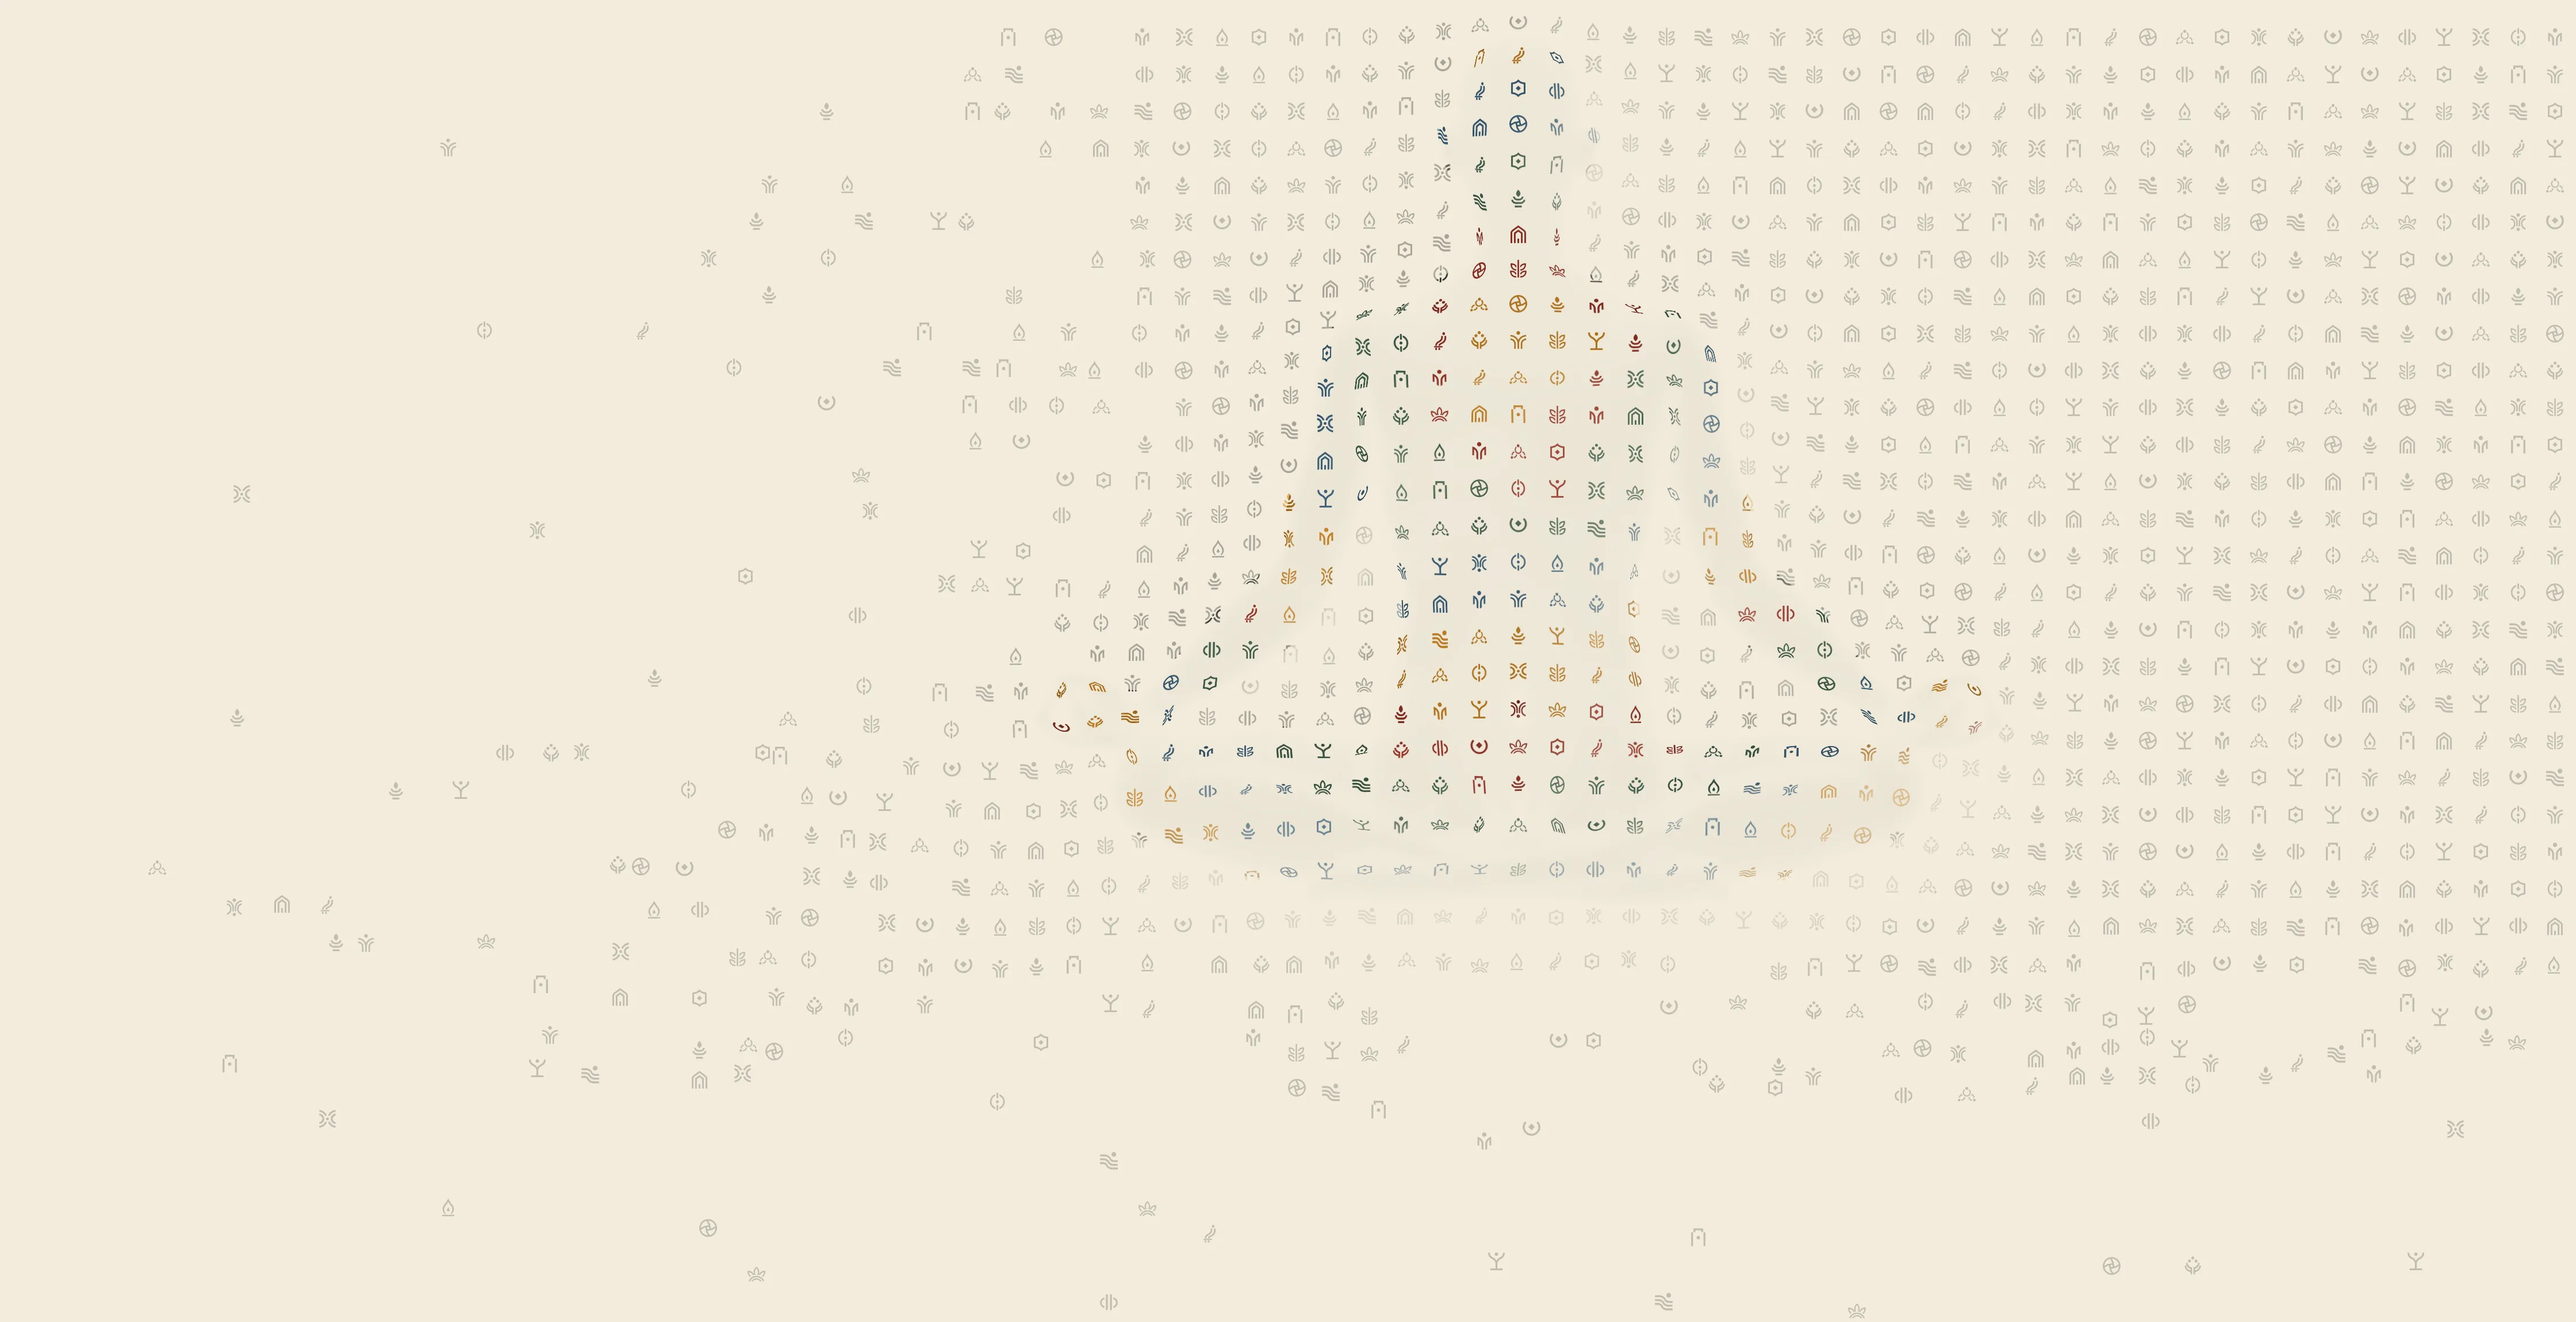
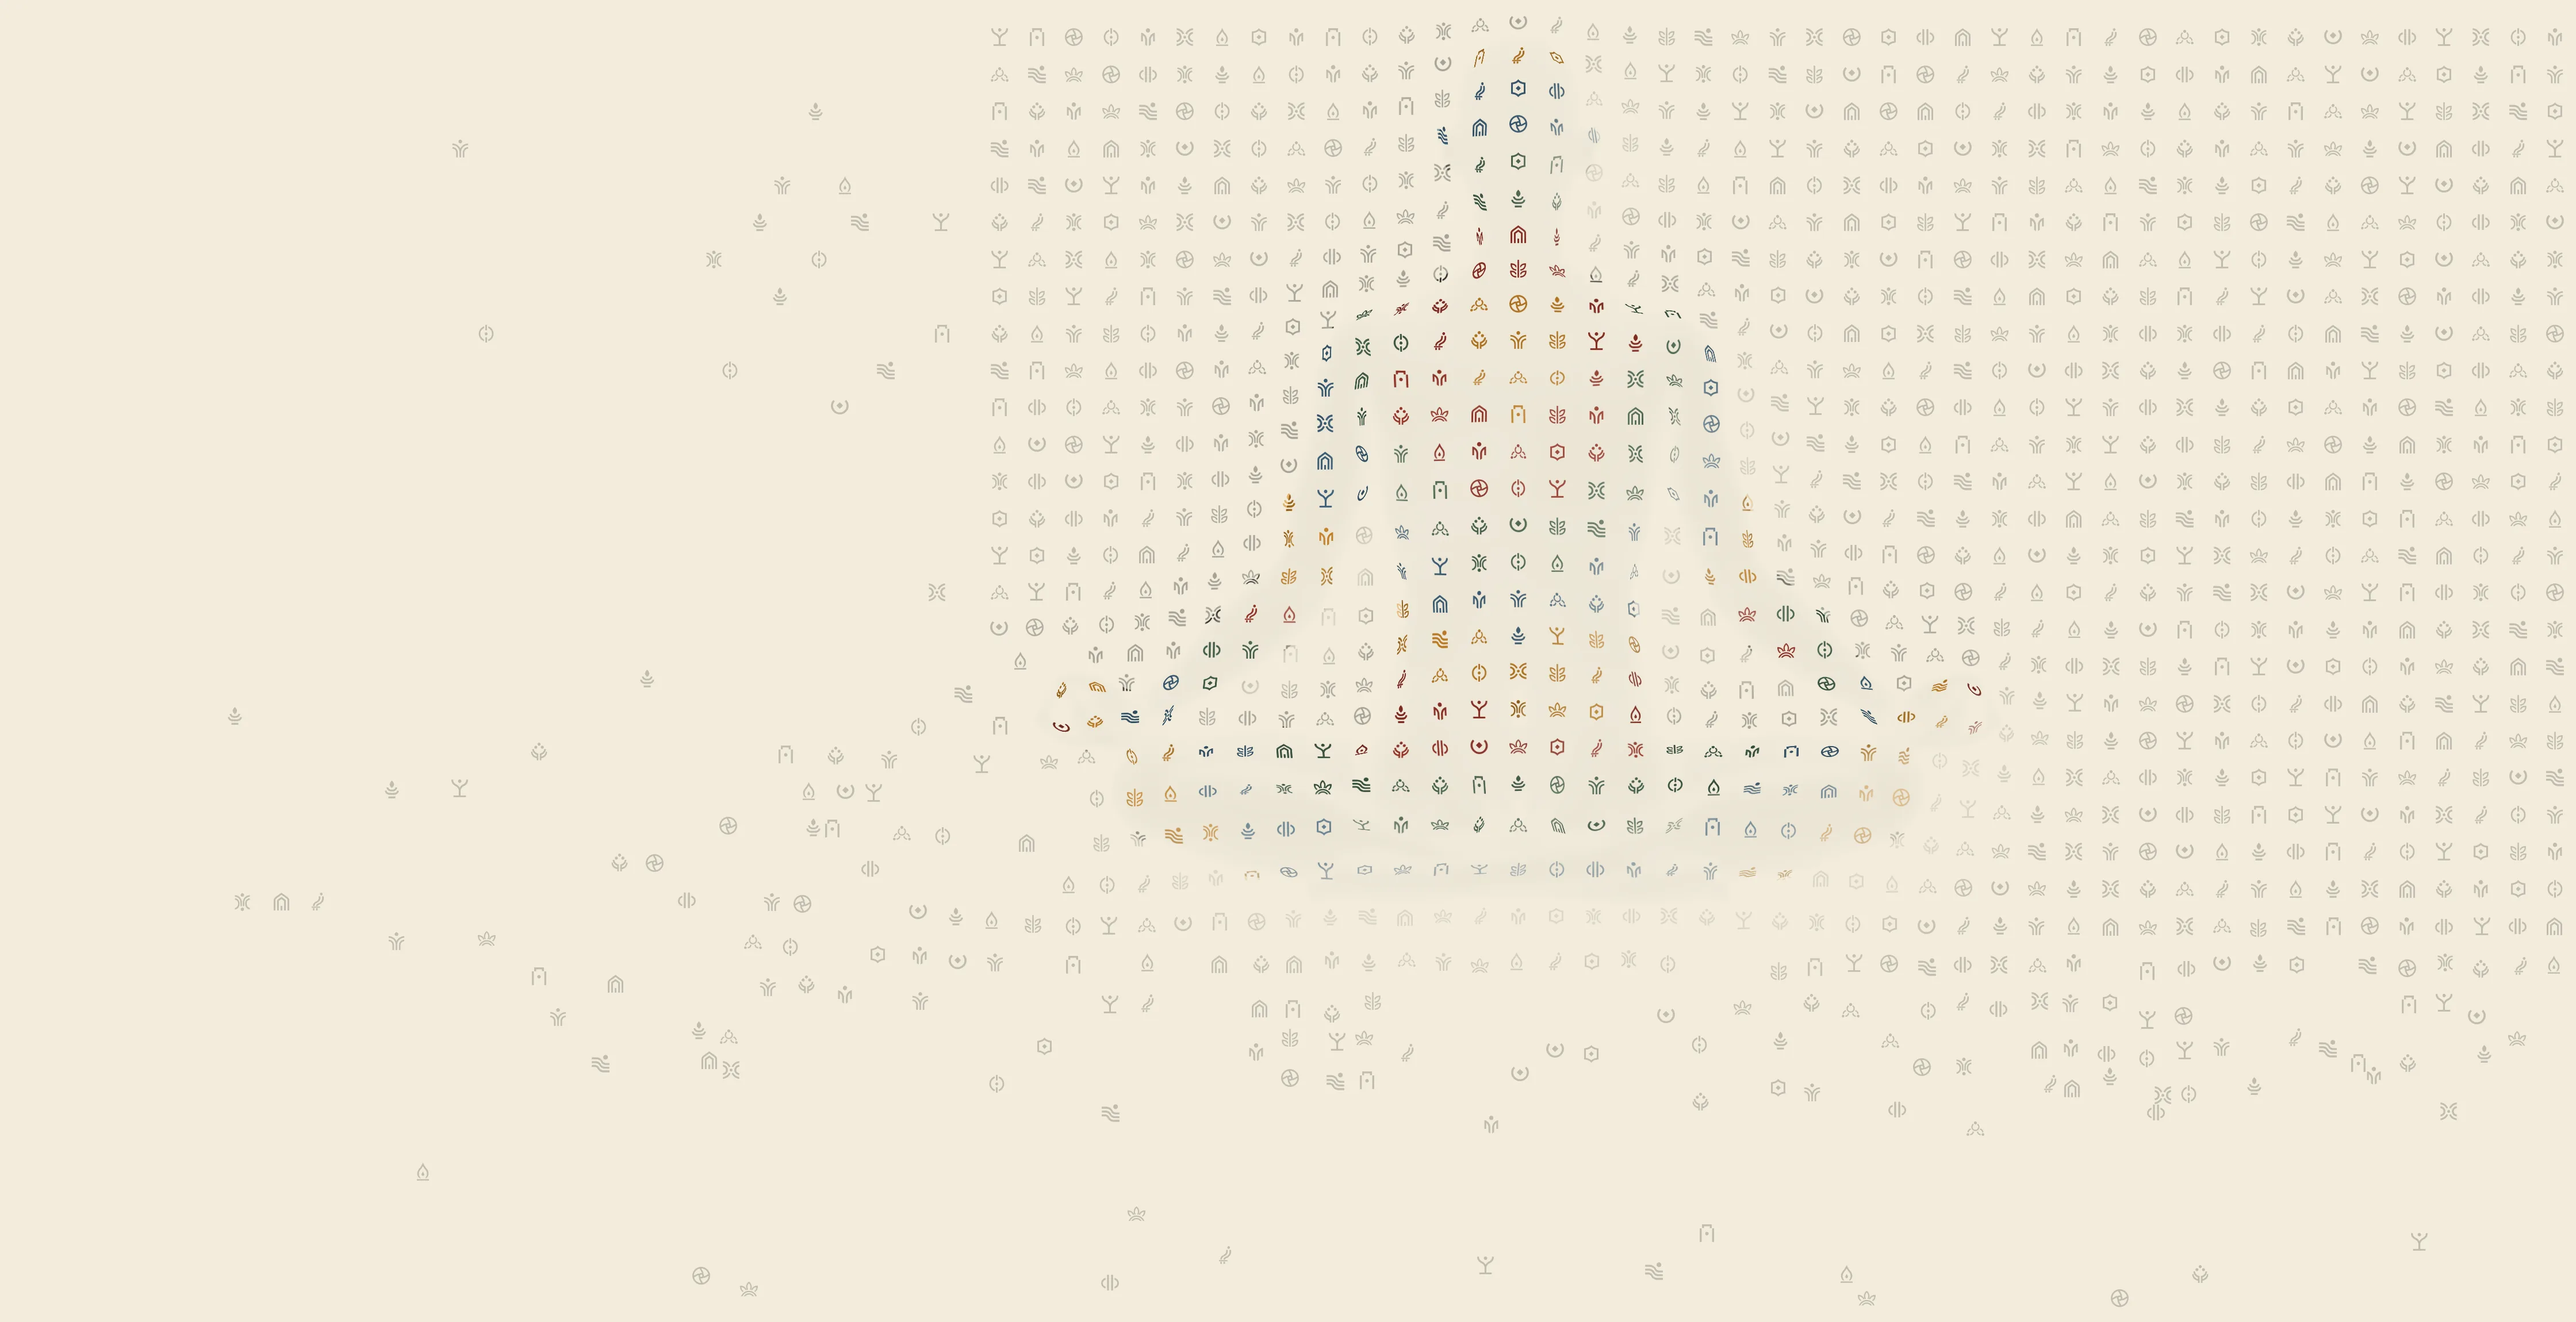
Hero field: crisp left edge through CE down to the figure's leftmost point, then sparse spread
Claude-Session: https://claude.ai/code/session_01Faxypstm6H8yAswypDCHBa

diff --git a/app/lanes-home.css b/app/lanes-home.css
@@ -257,7 +257,14 @@
 @media(min-width:901px){
   .field-guide .ln-copy{z-index:2}
   /* No clear zone behind the copy (Dat, Nov 17: "text is ok to have glyphs behind"); the waterfall shape alone sets the field. */
-  /* Field edges (Dat, Nov 17): the waterfall line and the break-up below the figure are drawn into the image by
-     scripts/hero-glyph-field.py (the field fragments and disperses); the CSS only fades the image's last rows. */
-  .field-guide .ln-art .ln-field{-webkit-mask-image:linear-gradient(#000 88%,transparent 99%);mask-image:linear-gradient(#000 88%,transparent 99%)}
+  /* Field edge (Dat, Nov 17): public/brand/home/hero-field-shape.svg, in stage units (x −700 to 2500, y −50 to 1200),
+     cuts the field crisply at x 500 (through the CE of "PRACTICE") down to the figure's leftmost point; below that the
+     image spreads out sparsely by itself. It is placed against the stage, so the cut keeps its place beside the copy at
+     every width. The field box sits at min(100vw,1280px) − 140 px − 1553.76 units. */
+  .field-guide .ln-art .ln-field{
+    -webkit-mask-image:url('/brand/home/hero-field-shape.svg'),linear-gradient(#000 88%,transparent 99%);
+    mask-image:url('/brand/home/hero-field-shape.svg'),linear-gradient(#000 88%,transparent 99%);
+    -webkit-mask-size:calc(3200 * var(--u)) calc(1250 * var(--u)),100% 100%;mask-size:calc(3200 * var(--u)) calc(1250 * var(--u)),100% 100%;
+    -webkit-mask-position:calc(853.76 * var(--u) + 140px - min(100vw,1280px)) calc(-50 * var(--u)),0 0;mask-position:calc(853.76 * var(--u) + 140px - min(100vw,1280px)) calc(-50 * var(--u)),0 0;
+    -webkit-mask-repeat:no-repeat;mask-repeat:no-repeat;-webkit-mask-composite:source-in;mask-composite:intersect}
 }

diff --git a/scripts/hero-glyph-field.py b/scripts/hero-glyph-field.py
@@ -73,7 +73,8 @@ DISPERSE=False            # False: the field stays an even grid below the figure
 # being cut by a mask. Near the edge glyphs thin out in uneven clumps, a few stragglers wander past it, and the rest
 # drift outwards. Only field glyphs; the figure is untouched. The line is the waterfall curve in stage units, placed as on
 # the page at 1440 px wide (stage x = image x + EDGE_SHIFT); it shifts by under 100 units at other widths.
-EDGE_PATH=[(500,-60),(500,40),('C',(500,430),(470,560),(330,660)),('C',(150,770),(-120,930),(-220,1210))]
+EDGE_PATH=[(500,-60),(500,560),('C',(500,700),(330,780),(150,880)),('C',(20,960),(-120,1060),(-220,1210))]
+SOLID_TO=610              # above this (stage y) the page's CSS cuts the field crisply at x 500; the image keeps it whole
 EDGE_SHIFT=141.5
 EDGE_BAND=230             # how far inside the line the field starts to break up (units)
 EDGE_OUT=110              # how far past the line stragglers reach (units)
@@ -148,6 +149,9 @@ def fragment(x,y,u):
     if e>=EDGE_BAND: pe=1.0; te=0.0
     elif e>=0: te=1-e/EDGE_BAND; te=te*te*(3-2*te); pe=1-(1-EDGE_KEEP)*te
     else: te=1.0; pe=EDGE_KEEP*np.exp(e/EDGE_OUT)
+    wsol=np.clip((SOLID_TO-y)/60,0,1) if e>=0 else 0.0       # inside the line, 1 well above SOLID_TO: no break-up there (the CSS cut);
+                                                             # outside it the field is sparse at every height, so the CSS fade-in shows no full rows
+    pe=pe+(1-pe)*wsol; te=te*(1-wsol)
     tb=np.clip((y-(TOP+HT+BOTTOM_START))/BOTTOM_LEN,0,1); tb=tb*tb*(3-2*tb); pb=1-(1-BOTTOM_KEEP)*tb
     p=pe*pb
     if p<1: p=np.clip(p+CLUMP*clump(x,y)*min(p,1-p)*2,0,1)

diff --git a/docs/edit-ledger.md b/docs/edit-ledger.md
@@ -785,3 +785,10 @@ commits. Hashes below were backfilled for commits made before the ledger existed
 - Only background glyphs are affected; the figure is unchanged.
 - Provisional: committed locally; waiting for Dat's go-ahead to push.
 - Why: Dat, Nov 17.
+
+### 2026-11-17 · Hero field: solid left edge through "CE", then a sparse spread (local, not pushed) (`home-04-lanes` only)
+- **Above the knee.** The field's left edge is a crisp vertical line between the C and E of "PRACTICE", running from the top down to the figure's leftmost point (stage y about 610). The cut is a CSS mask in stage units (`hero-field-shape.svg` again), so it stays between C and E at every desktop width.
+- **Below that.** The field opens out to the left into sparse, clumped stragglers. These are drawn into the image (`EDGE_PATH`, `SOLID_TO` in `scripts/hero-glyph-field.py`). Left of the line, the image is sparse at every height, so the mask's short fade-in never shows a full row.
+- The figure and the field to the right of the line are unchanged. The thinning below the figure is unchanged too.
+- Provisional: committed locally; waiting for Dat's go-ahead to push.
+- Why: Dat, Nov 17 ("a more solid line up till the left-most side of the figure, that cuts through CE, then sparse spread").
